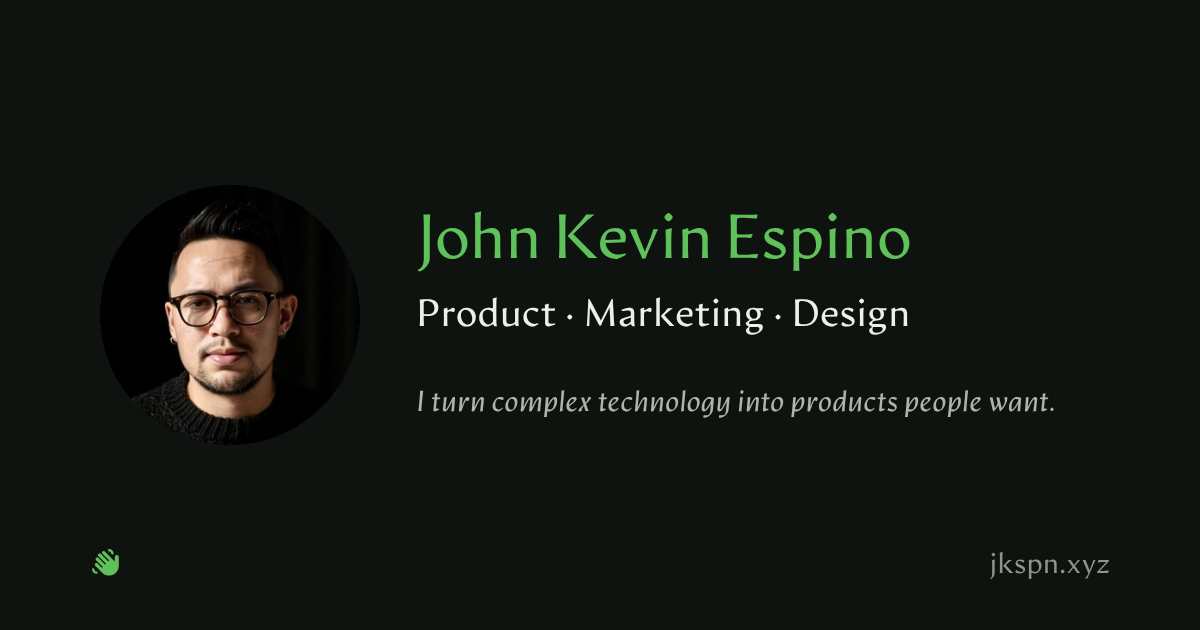
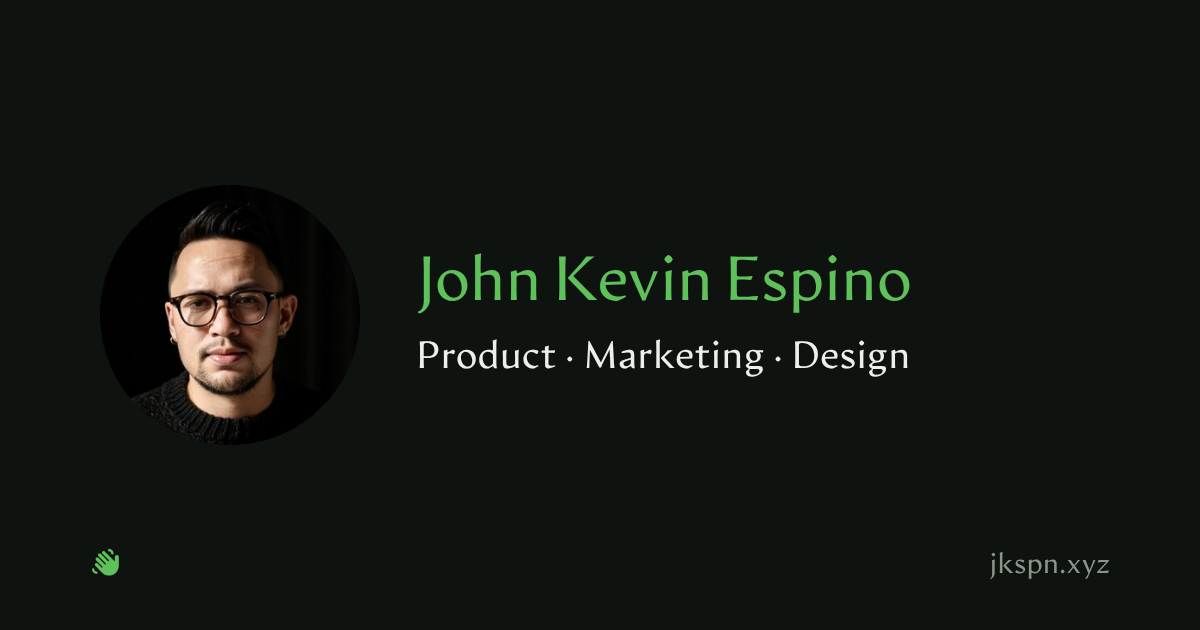
Updated content

Changed region(s): [[0.3392, 0.3317, 0.7708, 0.6032], [0.3392, 0.6333, 0.8942, 0.6635]]

diff --git a/index.html b/index.html
@@ -4,7 +4,7 @@
 <meta charset="utf-8">
 <meta name="viewport" content="width=device-width,initial-scale=1">
 <title>John Kevin Espino — Product · Marketing · Design</title>
-<meta name="description" content="John Kevin Espino: product, marketing, and design across Web3, AI, and data. Go-to-market, brand, and UI/UX. Based in the Philippines.">
+<meta name="description" content="Product, marketing, and design across Web3, AI, and data. I turn complex technology into products people understand and want: go-to-market, brand, and UI/UX.">
 <meta name="theme-color" content="#017100">
 <meta name="color-scheme" content="light dark">
 <script>try{localStorage.removeItem("theme")}catch(e){}</script>
@@ -46,7 +46,7 @@
 
 <section id="experience"><div class="wrap">
 <div class="sec-title"><h2>Experience</h2></div>
-<article class="entry reveal"><div class="head has-logo"><span class="logo" aria-hidden="true"><img src="assets/logos/benzimra.png" width="96" height="96" alt="" loading="lazy"></span><div class="head-main"><header><h3><span class="org">Benzimra &amp; Co.</span></h3><span class="dates">Sep 2025 – May 2026</span></header><p class="where"><svg viewBox="0 0 640 640" aria-hidden="true"><path d="M128 252.6C128 148.4 214 64 320 64C426 64 512 148.4 512 252.6C512 371.9 391.8 514.9 341.6 569.4C329.8 582.2 310.1 582.2 298.3 569.4C248.1 514.9 127.9 371.9 127.9 252.6zM320 320C355.3 320 384 291.3 384 256C384 220.7 355.3 192 320 192C284.7 192 256 220.7 256 256C256 291.3 284.7 320 320 320z"/></svg><span>London, United Kingdom</span></p><p class="desc"><i>Founder-led venture builder for crypto and Web3</i></p></div></div><h4 class="role">Senior Project Manager &amp; UI/UX Designer (Contract)</h4><ul class="sq"><li>Managed client relationships as primary contact and led delivery of a DeFi leverage product for Bitcoin based on the Kelly criterion.</li><li>Built a 50,000 sign-up pre-launch waitlist and set up the product’s social accounts, growing X to 5,000 followers in the first month.</li><li>Led Instagram user-generated content campaigns at launch and directed X and Meta ad creative with the growth manager.</li><li>Designed UI/UX for the product and internal tools, including screens, flows, and both product and internal dashboards.</li></ul></article><article class="entry reveal"><div class="head has-logo"><span class="logo" aria-hidden="true"><img src="assets/logos/Nuklai.png" width="96" height="96" alt="" loading="lazy"></span><div class="head-main"><header><h3><span class="org">Nuklai</span></h3><span class="dates">Mar 2025 – Jul 2026</span></header><p class="where"><svg viewBox="0 0 640 640" aria-hidden="true"><path d="M128 252.6C128 148.4 214 64 320 64C426 64 512 148.4 512 252.6C512 371.9 391.8 514.9 341.6 569.4C329.8 582.2 310.1 582.2 298.3 569.4C248.1 514.9 127.9 371.9 127.9 252.6zM320 320C355.3 320 384 291.3 384 256C384 220.7 355.3 192 320 192C284.7 192 256 220.7 256 256C256 291.3 284.7 320 320 320z"/></svg><span>Utrecht, The Netherlands</span></p><p class="desc"><i>AI and data management company unifying fragmented corporate data for AI-driven decisions</i></p></div></div><h4 class="role">Senior Marketing Manager</h4><ul class="sq"><li>Led go-to-market for Nexus, the flagship AI layer for enterprise data: brand and product messaging, marketing website, launch campaigns and creatives, PR, and documentation.</li><li>Designed the UI and led launch marketing for a staking platform, including creative assets and tutorials.</li><li>Led a full brand refresh: redesigned the website, logo assets, and social media templates for stills and graphics.</li><li>Grew social following from 20,000 to 50,000 with head-of-marketing scope, managing a small team, PR agencies, and KOL partnerships.</li></ul></article><article class="entry reveal multi"><div class="head has-logo"><span class="logo" aria-hidden="true"><img src="assets/logos/Nexera.png" width="96" height="96" alt="" loading="lazy"></span><div class="head-main"><header><h3><span class="org">Nexera <small>(formerly AllianceBlock)</small></span></h3><span class="dates">Jul 2021 – Sep 2025</span></header><p class="where"><svg viewBox="0 0 640 640" aria-hidden="true"><path d="M128 252.6C128 148.4 214 64 320 64C426 64 512 148.4 512 252.6C512 371.9 391.8 514.9 341.6 569.4C329.8 582.2 310.1 582.2 298.3 569.4C248.1 514.9 127.9 371.9 127.9 252.6zM320 320C355.3 320 384 291.3 384 256C384 220.7 355.3 192 320 192C284.7 192 256 220.7 256 256C256 291.3 284.7 320 320 320z"/></svg><span>Zug, Switzerland</span></p><p class="desc"><i>Web3 infrastructure for tokenizing real-world assets and compliant DeFi</i></p></div></div><div class="rolebox"><h4 class="role">Head of Communications<span>Jan 2023 – Sep 2025</span></h4><ul class="sq"><li>Led internal and external communications across social media, website, and agency and partner relationships, managing teams.</li><li>Ran marketing logistics and operations, coordinating creatives and Business Development and handling campaign sign-offs.</li><li>Led crisis communications for two security incidents affecting token price stability, aligning messaging across Support, Product/Engineering, and BD/Sales.</li><li>Partnered with Support to streamline the flow of information from tickets to internal teams and out to public announcements and documentation.</li></ul></div><div class="rolebox"><h4 class="role">Head of Community Marketing / Investor Communications<span>Apr 2022 – Dec 2022</span></h4><ul class="sq"><li>Led all initiatives around the ALBT (now NXRA) token and marketing for DeFi launches: Liquidity Mining as a Service, Nexera Exchange (DEX), and Nexera Finance, the precursor to the end-to-end tokenization product.</li><li>Owned product messaging and launch campaigns, and worked with PR on press releases, KOL activations, and a trading competition.</li><li>Grew social following from 30,000 to 80,000+ and delivered investor and community updates through newsletters, blog articles, and social channels.</li><li>Marketing point of contact for development teams, turning technical documentation into product messaging, demos, launch videos, and UI animations.</li></ul></div><div class="rolebox"><h4 class="role">Design Lead<span>Jul 2021 – Mar 2022</span></h4><ul class="sq"><li>Produced all marketing design for social, web, blog, and press releases, and supported Business Development with presentations, demos, and conference materials.</li><li>Designed and developed three website relaunches spanning the rebrand from AllianceBlock to Nexera, creating custom brand assets.</li><li>Designed UI for several products and aligned with other UI designers to unify the visual brand.</li></ul></div></article><article class="entry reveal"><div class="head has-logo"><span class="logo" aria-hidden="true"><img src="assets/logos/firstlook-sm.png" width="96" height="96" alt="" loading="lazy"></span><div class="head-main"><header><h3><span class="org">FirstLook Venture Co.</span></h3><span class="dates">Jan 2020 – Mar 2024</span></header><p class="where"><svg viewBox="0 0 640 640" aria-hidden="true"><path d="M128 252.6C128 148.4 214 64 320 64C426 64 512 148.4 512 252.6C512 371.9 391.8 514.9 341.6 569.4C329.8 582.2 310.1 582.2 298.3 569.4C248.1 514.9 127.9 371.9 127.9 252.6zM320 320C355.3 320 384 291.3 384 256C384 220.7 355.3 192 320 192C284.7 192 256 220.7 256 256C256 291.3 284.7 320 320 320z"/></svg><span>New York, United States of America</span></p><p class="desc"><i>Early-stage venture firm investing in high-growth consumer packaged goods (CPG) brands</i></p></div></div><h4 class="role">Technical Lead</h4><ul class="sq"><li>Joined as the first technical lead across product, marketing, and design, later continuing as an ongoing consultant.</li><li>Built the company website and integrated payment, sign-up, and subscription flows for the investor platform.</li><li>Set up investor data infrastructure, sourced brands for the physical sample boxes, and created a data room per brand; designed templates and marketing assets for the launch and first two years.</li></ul></article><article class="entry reveal"><div class="head"><div class="head-main"><header><h3><span class="org">Manic Nightnings Productions</span></h3><span class="dates">2014 – 2019</span></header><p class="where"><svg viewBox="0 0 640 640" aria-hidden="true"><path d="M128 252.6C128 148.4 214 64 320 64C426 64 512 148.4 512 252.6C512 371.9 391.8 514.9 341.6 569.4C329.8 582.2 310.1 582.2 298.3 569.4C248.1 514.9 127.9 371.9 127.9 252.6zM320 320C355.3 320 384 291.3 384 256C384 220.7 355.3 192 320 192C284.7 192 256 220.7 256 256C256 291.3 284.7 320 320 320z"/></svg><span>Philippines</span></p><p class="desc"><i>Events management, logistics and full-scale production outfit</i></p></div></div><h4 class="role">Creative Director for Visual Marketing</h4><ul class="sq"><li>Produced visual marketing for recurring music festivals (including Carte Blanche and Arcadia) drawing up to about 10,000 attendees with local and international DJs, plus smaller partner events.</li><li>Created video, motion, and print and digital collateral, and served as technical director during events and as liaison for partners, sponsors, and other organizations before and during each event.</li><li>Supported government festival management across several events, creating print and digital materials for each.</li><li>Managed end-to-end delivery of international conferences involving heads of state, coordinating USAID, Jhpiego and other stakeholders across registration (including QR-based IDs), venue, catering, and event materials, plus recap videos and delegate materials.</li><li>Clients included USAID, World Health Organization, DAI, Jhpiego, Department of Health, and the City Government of Davao.</li></ul></article><article class="entry reveal"><div class="head"><div class="head-main"><header><h3><span class="org">Beta Digital Design Services</span></h3><span class="dates">2012 – Present</span></header><p class="where"><svg viewBox="0 0 640 640" aria-hidden="true"><path d="M128 252.6C128 148.4 214 64 320 64C426 64 512 148.4 512 252.6C512 371.9 391.8 514.9 341.6 569.4C329.8 582.2 310.1 582.2 298.3 569.4C248.1 514.9 127.9 371.9 127.9 252.6zM320 320C355.3 320 384 291.3 384 256C384 220.7 355.3 192 320 192C284.7 192 256 220.7 256 256C256 291.3 284.7 320 320 320z"/></svg><span>Philippines</span></p><p class="desc"><i>Personal design and web studio</i></p></div></div><h4 class="role">Independent / Freelance Designer &amp; Web Builder</h4><ul class="sq"><li>Delivered branding, websites, and campaign materials for non-profit and advocacy organizations, including The Climate Reality Project (Philippines), Living Laudato Si’ Philippines, and Earth Day Network Philippines.</li><li>Led design and communications for the ASEAN Peace Project, a youth accelerator for peace and environmental action across Southeast Asia, including its website and conference materials; its programs won YSEALI Seeds for the Future grants (2015 and 2016).</li><li>Produced brand, event, and motion materials for the Kadayawan Festival, working directly with the City Government of Davao.</li><li>Designed promotions, in-mall activations, and billboards for SM Supermalls and Ayala Malls, plus brand collateral for the Aboitiz Group and Aboitiz Power Corporation.</li><li>Redesigned and built the website for CoinPass, a UK-based exchange platform.</li></ul></article>
+<article class="entry reveal"><div class="head has-logo"><span class="logo" aria-hidden="true"><img src="assets/logos/benzimra.png" width="96" height="96" alt="" loading="lazy"></span><div class="head-main"><header><h3><span class="org">Benzimra &amp; Co.</span></h3><span class="dates">Sep 2025 – May 2026</span></header><p class="where"><svg viewBox="0 0 640 640" aria-hidden="true"><path d="M128 252.6C128 148.4 214 64 320 64C426 64 512 148.4 512 252.6C512 371.9 391.8 514.9 341.6 569.4C329.8 582.2 310.1 582.2 298.3 569.4C248.1 514.9 127.9 371.9 127.9 252.6zM320 320C355.3 320 384 291.3 384 256C384 220.7 355.3 192 320 192C284.7 192 256 220.7 256 256C256 291.3 284.7 320 320 320z"/></svg><span>London, United Kingdom</span></p><p class="desc"><i>Founder-led venture builder for crypto and Web3</i></p></div></div><h4 class="role">Senior Project Manager &amp; UI/UX Designer (Contract)</h4><ul class="sq"><li>Managed client relationships as primary contact and led delivery of a DeFi leverage product for Bitcoin based on the Kelly criterion.</li><li>Built a 50,000 sign-up pre-launch waitlist and set up the product’s social accounts, growing X to 5,000 followers in the first month.</li><li>Led Instagram user-generated content campaigns at launch and directed X and Meta ad creative with the growth manager.</li><li>Designed UI/UX for the product and internal tools, including screens, flows, and both product and internal dashboards.</li></ul></article><article class="entry reveal"><div class="head has-logo"><span class="logo" aria-hidden="true"><img src="assets/logos/Nuklai.png" width="96" height="96" alt="" loading="lazy"></span><div class="head-main"><header><h3><span class="org">Nuklai</span></h3><span class="dates">Mar 2025 – Jul 2026</span></header><p class="where"><svg viewBox="0 0 640 640" aria-hidden="true"><path d="M128 252.6C128 148.4 214 64 320 64C426 64 512 148.4 512 252.6C512 371.9 391.8 514.9 341.6 569.4C329.8 582.2 310.1 582.2 298.3 569.4C248.1 514.9 127.9 371.9 127.9 252.6zM320 320C355.3 320 384 291.3 384 256C384 220.7 355.3 192 320 192C284.7 192 256 220.7 256 256C256 291.3 284.7 320 320 320z"/></svg><span>Utrecht, The Netherlands</span></p><p class="desc"><i>AI and data management company unifying fragmented corporate data for AI-driven decisions</i></p></div></div><h4 class="role">Senior Marketing Manager</h4><ul class="sq"><li>Led go-to-market for Nexus, the flagship AI layer for enterprise data: brand and product messaging, marketing website, launch campaigns and creatives, PR, and documentation.</li><li>Designed the UI and led launch marketing for a staking platform, including creative assets and tutorials.</li><li>Led a full brand refresh: redesigned the website, logo assets, and social media templates for stills and graphics.</li><li>Grew social following from 20,000 to 50,000 with head-of-marketing scope, managing a small team, PR agencies, and KOL partnerships.</li></ul></article><article class="entry reveal multi"><div class="head has-logo"><span class="logo" aria-hidden="true"><img src="assets/logos/Nexera.png" width="96" height="96" alt="" loading="lazy"></span><div class="head-main"><header><h3><span class="org">Nexera <small>(formerly AllianceBlock)</small></span></h3><span class="dates">Jul 2021 – Sep 2025</span></header><p class="where"><svg viewBox="0 0 640 640" aria-hidden="true"><path d="M128 252.6C128 148.4 214 64 320 64C426 64 512 148.4 512 252.6C512 371.9 391.8 514.9 341.6 569.4C329.8 582.2 310.1 582.2 298.3 569.4C248.1 514.9 127.9 371.9 127.9 252.6zM320 320C355.3 320 384 291.3 384 256C384 220.7 355.3 192 320 192C284.7 192 256 220.7 256 256C256 291.3 284.7 320 320 320z"/></svg><span>Zug, Switzerland</span></p><p class="desc"><i>Web3 infrastructure for tokenizing real-world assets and compliant DeFi</i></p></div></div><div class="rolebox"><h4 class="role">Head of Communications<span>Jan 2023 – Sep 2025</span></h4><ul class="sq"><li>Led internal and external communications across social media, website, and agency and partner relationships, managing teams.</li><li>Ran marketing logistics and operations, coordinating creatives and Business Development and handling campaign sign-offs.</li><li>Led crisis communications for two security incidents affecting token price stability, aligning messaging across Support, Product/Engineering, and BD/Sales.</li><li>Partnered with Support to streamline the flow of information from tickets to internal teams and out to public announcements and documentation.</li></ul></div><div class="rolebox"><h4 class="role">Head of Community Marketing / Investor Communications<span>Apr 2022 – Dec 2022</span></h4><ul class="sq"><li>Led all initiatives around the ALBT (now NXRA) token and marketing for DeFi launches: Liquidity Mining as a Service, Nexera Exchange (DEX), and Nexera Finance, the precursor to the end-to-end tokenization product.</li><li>Owned product messaging and launch campaigns, and worked with PR on press releases, KOL activations, and a trading competition.</li><li>Grew social following from 30,000 to 80,000+ and delivered investor and community updates through newsletters, blog articles, and social channels.</li><li>Marketing point of contact for development teams, turning technical documentation into product messaging, demos, launch videos, and UI animations.</li></ul></div><div class="rolebox"><h4 class="role">Design Lead<span>Jul 2021 – Mar 2022</span></h4><ul class="sq"><li>Produced all marketing design for social, web, blog, and press releases, and supported Business Development with presentations, demos, and conference materials.</li><li>Designed and developed three website relaunches spanning the rebrand from AllianceBlock to Nexera, creating custom brand assets.</li><li>Designed UI for several products and aligned with other UI designers to unify the visual brand.</li></ul></div></article><article class="entry reveal"><div class="head has-logo"><span class="logo" aria-hidden="true"><img src="assets/logos/firstlook-sm.png" width="96" height="96" alt="" loading="lazy"></span><div class="head-main"><header><h3><span class="org">FirstLook Venture Co.</span></h3><span class="dates">Jan 2020 – Mar 2024</span></header><p class="where"><svg viewBox="0 0 640 640" aria-hidden="true"><path d="M128 252.6C128 148.4 214 64 320 64C426 64 512 148.4 512 252.6C512 371.9 391.8 514.9 341.6 569.4C329.8 582.2 310.1 582.2 298.3 569.4C248.1 514.9 127.9 371.9 127.9 252.6zM320 320C355.3 320 384 291.3 384 256C384 220.7 355.3 192 320 192C284.7 192 256 220.7 256 256C256 291.3 284.7 320 320 320z"/></svg><span>New York, United States of America</span></p><p class="desc"><i>Early-stage venture firm investing in high-growth consumer packaged goods (CPG) brands</i></p></div></div><h4 class="role">Technical Lead</h4><ul class="sq"><li>Joined as the first technical lead across product, marketing, and design, later continuing as an ongoing consultant.</li><li>Built the company website and integrated payment, sign-up, and subscription flows for the investor platform.</li><li>Set up investor data infrastructure, sourced brands for the physical sample boxes, and created a data room per brand; designed templates and marketing assets for the launch and first two years.</li></ul></article><article class="entry reveal"><div class="head"><div class="head-main"><header><h3><span class="org">Manic Nightnings Productions</span></h3><span class="dates">2014 – 2019</span></header><p class="where"><svg viewBox="0 0 640 640" aria-hidden="true"><path d="M128 252.6C128 148.4 214 64 320 64C426 64 512 148.4 512 252.6C512 371.9 391.8 514.9 341.6 569.4C329.8 582.2 310.1 582.2 298.3 569.4C248.1 514.9 127.9 371.9 127.9 252.6zM320 320C355.3 320 384 291.3 384 256C384 220.7 355.3 192 320 192C284.7 192 256 220.7 256 256C256 291.3 284.7 320 320 320z"/></svg><span>Philippines</span></p><p class="desc"><i>Events management, logistics and full-scale production outfit</i></p></div></div><h4 class="role">Creative Director for Visual Marketing</h4><ul class="sq"><li>Produced visual marketing for recurring music festivals (including Carte Blanche and Arcadia) drawing up to about 10,000 attendees with local and international DJs, plus smaller partner events.</li><li>Created video, motion, and print and digital collateral, and served as technical director during events and as liaison for partners, sponsors, and other organizations before and during each event.</li><li>Supported government festival management across several events, creating print and digital materials for each.</li><li>Managed end-to-end delivery of international conferences involving heads of state, coordinating USAID, Jhpiego and other stakeholders across registration (including QR-based IDs), venue, catering, and event materials, plus recap videos and delegate materials.</li><li>Clients included USAID, World Health Organization, DAI, Jhpiego, Department of Health, and the City Government of Davao.</li></ul></article><article class="entry reveal"><div class="head"><div class="head-main"><header><h3><span class="org">Beta Digital Design Services</span></h3><span class="dates">2012 – Present</span></header><p class="where"><svg viewBox="0 0 640 640" aria-hidden="true"><path d="M128 252.6C128 148.4 214 64 320 64C426 64 512 148.4 512 252.6C512 371.9 391.8 514.9 341.6 569.4C329.8 582.2 310.1 582.2 298.3 569.4C248.1 514.9 127.9 371.9 127.9 252.6zM320 320C355.3 320 384 291.3 384 256C384 220.7 355.3 192 320 192C284.7 192 256 220.7 256 256C256 291.3 284.7 320 320 320z"/></svg><span>Remote</span></p><p class="desc"><i>Personal design and web studio</i></p></div></div><h4 class="role">Independent / Freelance Designer &amp; Web Builder</h4><ul class="sq"><li>Delivered branding, websites, and campaign materials for non-profit and advocacy organizations, including The Climate Reality Project (Philippines), Living Laudato Si’ Philippines, and Earth Day Network Philippines.</li><li>Led design and communications for the ASEAN Peace Project, a youth accelerator for peace and environmental action across Southeast Asia, including its website and conference materials; its programs won YSEALI Seeds for the Future grants (2015 and 2016).</li><li>Produced brand, event, and motion materials for the Kadayawan Festival, working directly with the City Government of Davao.</li><li>Designed promotions, in-mall activations, and billboards for SM Supermalls and Ayala Malls, plus brand collateral for the Aboitiz Group and Aboitiz Power Corporation.</li><li>Redesigned and built the website for CoinPass, a UK-based exchange platform.</li></ul></article>
 </div></section>
 
 <section id="education"><div class="wrap">
